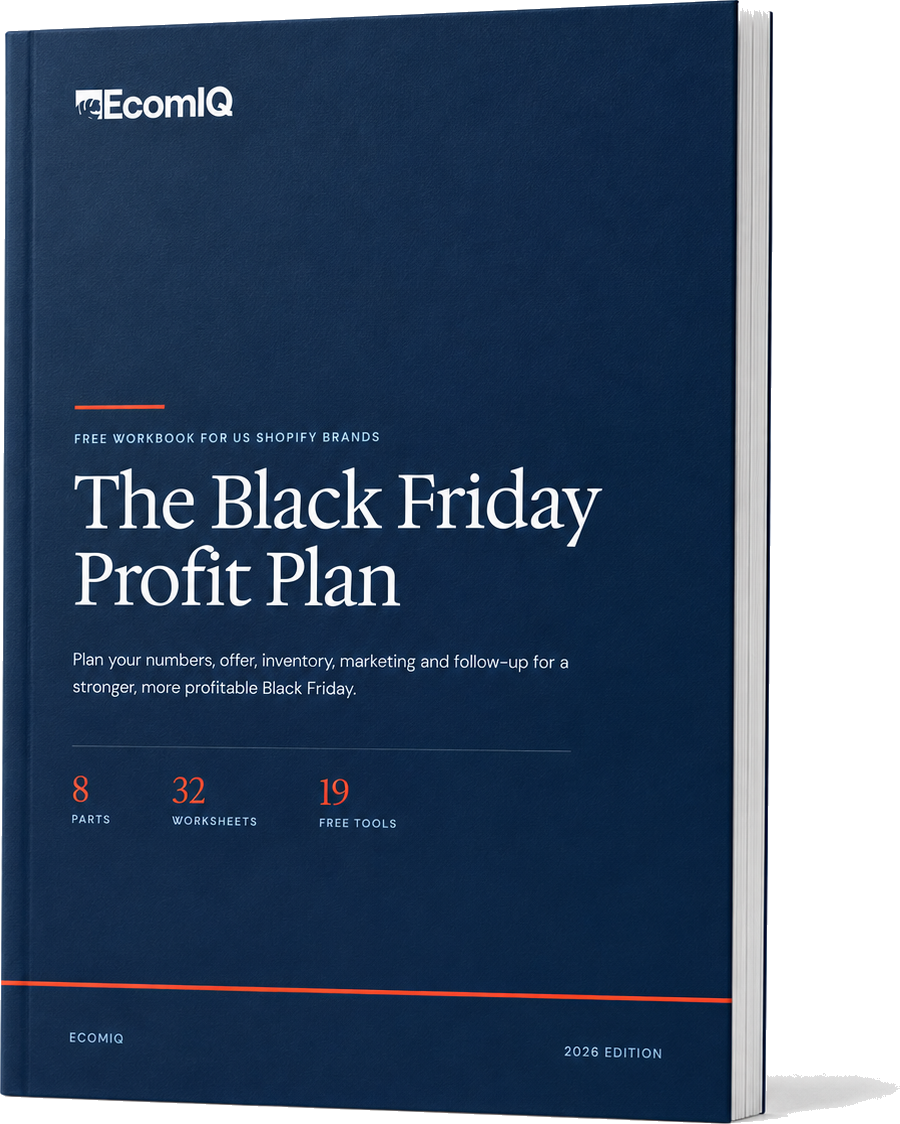
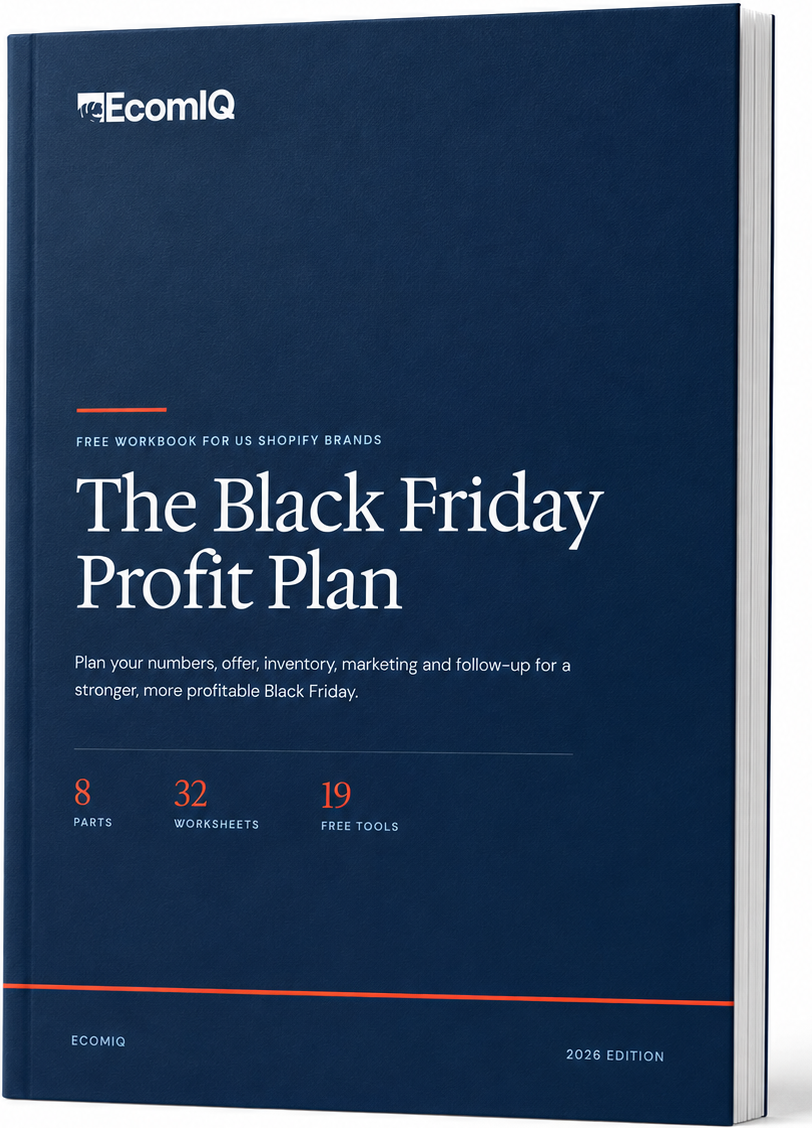
Ship the feed cut as 4:5 and put both product stills back on a white card
The second deliverable should be 4:5 (1080x1350), the EcomIQ house Meta feed
format, not 1:1. That needs its own crop off the master (1728x2160 against the
square's 2160x2160) — rescaling one ratio's rendition into another squashes
Sean — so gen-square.sh is now gen-ratio.sh <45|1x1> and the 1:1 stays one
command away rather than being deleted.

Also reverts the cover cut-out. Making the workbook bigger by dropping its
white card and flood-filling the mockup backdrop left ragged alpha along the
page block, stranded the drop shadow as a floating grey blob, and gave a navy
book no separation on a navy canvas. Both stills go back on a white card, where
the backdrop simply disappears, and the cover is additionally cropped to 812px
because the book sits left of centre in its mockup frame and a plain trim
leaves a slab of dead white beside it.

The band check caught the 4:5 FREE scene overflowing the subtitle band by 1px;
the toolkit spread steps down to 820px there. Clearances are 103px (9:16) and
23px (4:5).

Claude-Session: https://claude.ai/code/session_011z9EyrvhL1WqyEvnjq7vuU

diff --git a/video-projects/ecomiq-bf-workbook/assets/ad.css b/video-projects/ecomiq-bf-workbook/assets/ad.css
@@ -16,10 +16,12 @@
    enters it — only full-bleed decoratives (the bloom, the A-roll scrim) pass
    through, and those sit behind type without hurting legibility.
      9:16  340px → band is y 1580–1920 (17.7% of frame)
+     4:5   240px → band is y 1110–1350 (17.8% of frame)
      1:1   200px → band is y  880–1080 (18.5% of frame)
    Change the value here and every scene rebalances. Verify with
    scripts/check-subtitle-band.mjs. */
 body.r-916 { height: 1920px; --sub-safe: 340px; }
+body.r-45  { height: 1350px; --sub-safe: 240px; }
 body.r-1x1 { height: 1080px; --sub-safe: 200px; }
 
 * { margin: 0; padding: 0; box-sizing: border-box; }
@@ -43,6 +45,20 @@ body.r-916 {
   --dial: 260px;   --dial-fig: 78px;
   --box: 62px;     --ctext: 44px;     --check-gap: 20px;
   --cover-w: 840px; --page-w: 760px;  --spread-w: 904px; --free-word: 200px;
+  --pill: 46px;    --end-head: 104px;
+}
+/* 4:5 is the EcomIQ house Meta feed format. All three cuts are 1080 wide, so
+   width-bound type carries the 9:16 sizes unchanged; only the height budget
+   differs, which is why the cover and page shots step down here. */
+body.r-45 {
+  --pad-x: 88px;   --pad-top: 150px;  --pad-bot: 60px;
+  --eyebrow: 26px; --label: 27px;     --h1: 104px;
+  --fig-lg: 96px;  --fig-sm: 62px;
+  --bar-h: 26px;   --chip-h: 54px;    --chip-k: 28px;  --chip-v: 32px;
+  --arrow-w: 118px; --arrow-h: 150px; --cname: 40px;
+  --dial: 260px;   --dial-fig: 78px;
+  --box: 62px;     --ctext: 44px;     --check-gap: 20px;
+  --cover-w: 640px; --page-w: 560px;  --spread-w: 820px; --free-word: 200px;
   --pill: 46px;    --end-head: 104px;
 }
 body.r-1x1 {
@@ -90,6 +106,7 @@ body.r-1x1 {
    --------------------------------------------------------------------------- */
 #logo-wrap { position: absolute; z-index: 100; }
 body.r-916 #logo-wrap { top: 96px; left: 88px; }
+body.r-45  #logo-wrap { top: 80px; left: 88px; }
 body.r-1x1 #logo-wrap { top: 56px; left: 72px; }
 #logo-wrap img { display: block; width: 196px; height: auto;
   filter: drop-shadow(0 6px 18px rgba(0, 0, 0, 0.55)); }
@@ -201,18 +218,18 @@ body.r-1x1 #logo-wrap img { width: 168px; }
   letter-spacing: 0.02em; text-transform: uppercase; color: var(--brand-white); }
 
 /* ---- 7 · product stills --------------------------------------------------
-   Sources are trimmed to the product's bounding box, so the artwork fills its
-   box instead of floating inside the mockup's white margin. Sat straight on
-   navy with a drop shadow — no white card, which lets the cover run much
-   larger in frame. */
-.shot { display: block; height: auto;
-  filter: drop-shadow(0 46px 90px rgba(0, 0, 0, 0.6)); }
+   Both stills keep the mockup's white backdrop and sit on a white card.
+   Knocking the background out was tried and reverted: these products are shot
+   at an angle with soft drop shadows, so an alpha cut leaves ragged edges on
+   the page block and strands the shadow as a floating grey blob — and a navy
+   book on a navy canvas has no separation anyway. On a white card the
+   backdrop simply disappears into the card, which is why the wedges of white
+   a plain -trim leaves inside the bounding box cost nothing here. */
+.shot { display: block; height: auto; background: #fff; border-radius: 18px;
+  box-shadow: 0 46px 90px -20px rgba(0, 0, 0, 0.6); }
 #hero-shot { width: var(--cover-w); }
 #page-shot { width: var(--page-w); border-radius: 10px; }
-/* The toolkit spread's worksheets are white paper touching the white
-   backdrop, so knocking the background out erodes the pages themselves.
-   It keeps its backdrop and reads as a photo card instead. */
-#free-shot { width: var(--spread-w); background: #fff; border-radius: 18px; }
+#free-shot { width: var(--spread-w); }
 .scene .eyebrow { margin-bottom: 34px; }
 #page-callout { margin-top: 40px; display: flex; align-items: baseline; gap: 22px;
   padding: 26px 40px; border-radius: 16px; background: #0a325f;
@@ -231,6 +248,7 @@ body.r-1x1 #free-word { margin-top: 26px; }
   letter-spacing: -0.03em; text-align: center; color: var(--brand-white);
   max-width: 700px; }
 body.r-1x1 #end-head { max-width: 520px; }
+body.r-45 #end-head { max-width: 700px; }
 #end-pill { margin-top: 68px; font-size: var(--pill); font-weight: 800;
   color: var(--brand-white); background: var(--brand-flame);
   padding: 36px 84px; border-radius: 999px;

diff --git a/video-projects/ecomiq-bf-workbook/compositions/feed-45.html b/video-projects/ecomiq-bf-workbook/compositions/feed-45.html
@@ -2,8 +2,8 @@
 <html lang="en">
   <head>
     <meta charset="UTF-8" />
-    <meta name="viewport" content="width=1080, height=1080" />
-    <title>EcomIQ — Black Friday Profit Plan workbook (1:1)</title>
+    <meta name="viewport" content="width=1080, height=1350" />
+    <title>EcomIQ — Black Friday Profit Plan workbook (4:5)</title>
     <!-- GSAP vendored locally — a CDN tag cert-fails in the render env and
          freezes renders (docs/LESSONS.md). -->
     <script src="assets/vendor/gsap.min.js"></script>
@@ -18,7 +18,7 @@
         font-display: block; src: url(assets/fonts/HedvigLettersSerif.woff2) format('woff2'); }
     </style>
   </head>
-  <body class="r-1x1">
+  <body class="r-45">
     <!-- =====================================================================
          Render contract: root carries id, data-composition-id, data-start="0",
          data-duration, data-width, data-height. Timed visible children carry
@@ -26,7 +26,7 @@
          <video> and <audio>, which take the data-* but never class="clip".
 
          GENERATED FILE — do not edit. Produced from ../index.html by
-         scripts/gen-square.sh. Edit index.html and re-run that script.
+         scripts/gen-ratio.sh. Edit index.html and re-run that script.
 
          Source is trimmed 2.75s via data-media-start on the video AND the
          audio equally, dropping the dead air before Sean's first word without
@@ -34,16 +34,16 @@
          ===================================================================== -->
     <div
       id="root"
-      data-composition-id="ecomiq-bf-workbook-square"
+      data-composition-id="ecomiq-bf-workbook-45"
       data-start="0"
       data-duration="52.33"
       data-width="1080"
-      data-height="1080"
+      data-height="1350"
     >
       <!-- A-roll spine. Non-timed wrapper so the <video> is never transformed. -->
       <div id="aroll-wrap">
         <video id="aroll" data-start="0" data-duration="45.20" data-track-index="20"
-               data-media-start="2.75" src="assets/aroll-1x1.mp4" muted playsinline></video>
+               data-media-start="2.75" src="assets/aroll-45.mp4" muted playsinline></video>
       </div>
       <div id="aroll-scrim"></div>
 
@@ -430,7 +430,7 @@
 
       // Pad to the root data-duration.
       tl.to({}, { duration: 52.33 }, 0);
-      window.__timelines["ecomiq-bf-workbook-square"] = tl;
+      window.__timelines["ecomiq-bf-workbook-45"] = tl;
     </script>
   </body>
 </html>

diff --git a/video-projects/ecomiq-bf-workbook/index.html b/video-projects/ecomiq-bf-workbook/index.html
@@ -25,8 +25,8 @@
          class="clip" + data-start / data-duration / data-track-index, except
          <video> and <audio>, which take the data-* but never class="clip".
 
-         compositions/square.html is GENERATED from this file — run
-         scripts/gen-square.sh after editing, never hand-edit the square cut.
+         Secondary ratio cuts are GENERATED from this file — run
+         scripts/gen-ratio.sh <ratio> after editing, never hand-edit them.
 
          Source is trimmed 2.75s via data-media-start on the video AND the
          audio equally, dropping the dead air before Sean's first word without

diff --git a/video-projects/ecomiq-bf-workbook/DESIGN.md b/video-projects/ecomiq-bf-workbook/DESIGN.md
@@ -6,29 +6,32 @@ scenes** that replace him on their beats; he carries the beats between them. The
 ad finishes on a workbook CTA end card. No captions are rendered — they go on
 manually downstream.
 
-## Two cuts, one source of truth
+## The cuts, one source of truth
 
 | Cut | File | Dimensions | Render |
 |---|---|---|---|
 | 9:16 Story/Reels | `index.html` | 1080×1920 @ 30fps | `npx hyperframes render -q standard -o renders/ecomiq-bf-workbook-916.mp4` |
-| 1:1 square feed | `compositions/square.html` | 1080×1080 @ 30fps | `npx hyperframes render -q standard -c compositions/square.html -o renders/ecomiq-bf-workbook-1x1.mp4` |
+| 4:5 Meta feed | `compositions/feed-45.html` | 1080×1350 @ 30fps | `npx hyperframes render -q standard -c compositions/feed-45.html -o renders/ecomiq-bf-workbook-45.mp4` |
 
-**`compositions/square.html` is GENERATED — never hand-edit it.** Edit
-`index.html`, then run `bash scripts/gen-square.sh` from the repo root. The two
-cuts carry identical markup and identical timeline JS; everything that differs
-is a CSS custom property under `body.r-916` / `body.r-1x1` in `assets/ad.css`.
-That is why a change lands in both cuts at once instead of drifting.
+4:5 is the EcomIQ house Meta feed format and is the shipped pair with the 9:16.
+A 1:1 cut also exists on demand (`bash scripts/gen-ratio.sh 1x1`) but is not
+part of the delivery.
+
+**Secondary cuts are GENERATED — never hand-edit them.** Edit `index.html`,
+then run `bash scripts/gen-ratio.sh 45` (or `1x1`) from the repo root. Every
+cut carries identical markup and identical timeline JS; everything that differs
+is a CSS custom property under `body.r-916` / `body.r-45` / `body.r-1x1` in
+`assets/ad.css`. That is why a change lands in every cut at once instead of
+drifting. The generator also offsets each ratio's track indices into its own
+range so static lint never reads two cuts as one timeline.
 
 Two structural rules the linter enforces, learned the hard way:
 
-- Only one root `index.html` may carry a `data-composition-id`, so the square
-  cut lives under `compositions/` and renders with `-c`.
+- Only one root `index.html` may carry a `data-composition-id`, so secondary
+  cuts live under `compositions/` and render with `-c`.
 - Files under `compositions/` use **root-relative** asset paths (`assets/…`,
   never `../assets/…`) — Hyperframes serves every composition with the project
   root as its base URL.
-
-The generator also shifts the square cut's track indices into the 20+ range so
-static lint never reads the two cuts as one timeline with duplicate audio.
 
 Beat-by-beat timings and the provenance of every on-screen figure:
 **`EDIT-PLAN.md`**. Note the plan predates two cuts Anna made in review (see
@@ -74,21 +77,22 @@ A-roll went back to full-bleed it just tinted the bottom of the shot.
 **Graphic scenes** (`.scene`) are full-screen navy, `z-index: 10`, and replace
 Sean entirely for their duration. `.sc` lays out with padding + flex, never an
 absolute-positioned content container; `.sc-mid` centres content in whatever
-space remains above the subtitle band, so both ratios balance without
+space remains above the subtitle band, so every ratio balances without
 hardcoded offsets.
 
 Logo: `ecomiq-logo-white.svg`, top-left on **every** frame, 196px on 9:16 and
-168px on 1:1 (~18% and ~16% of frame width), in a **positioned non-`clip`
+4:5, 168px on 1:1 (~18% and ~16% of frame width), in a **positioned non-`clip`
 wrapper** — `clip` makes the render engine reposition it (`docs/LESSONS.md`).
 
 ## Reserved subtitle band (do not fill)
 
 Subtitles are added **manually, downstream**. A clear band is reserved at the
-bottom of both cuts and nothing may be laid into it:
+bottom of every cut and nothing may be laid into it:
 
 | Cut | `--sub-safe` | Band | % of height |
 |---|---|---|---|
 | 9:16 | `340px` | y 1580–1920 | 17.7% |
+| 4:5 | `240px` | y 1110–1350 | 17.8% |
 | 1:1 | `200px` | y 880–1080 | 18.5% |
 
 Set once in `assets/ad.css`; every scene rebalances off it via
@@ -98,10 +102,10 @@ Set once in `assets/ad.css`; every scene rebalances off it via
 
 ```bash
 node scripts/check-subtitle-band.mjs video-projects/ecomiq-bf-workbook/index.html 1920 340
-node scripts/check-subtitle-band.mjs video-projects/ecomiq-bf-workbook/compositions/square.html 1080 200
+node scripts/check-subtitle-band.mjs video-projects/ecomiq-bf-workbook/compositions/feed-45.html 1350 240
 ```
 
-Current clearance: **119px** (9:16), **22px** (1:1).
+Current clearance: **103px** (9:16), **23px** (4:5).
 
 Two things that checker gets right, both of which produced false passes before:
 
@@ -126,7 +130,7 @@ Two things that checker gets right, both of which produced false passes before:
 - **No ratio constants in the JS.** Bar geometry is computed from the dollar
   figures against the live `.bar` width; the dial circumference reads the SVG's
   own radius; checkmark dash lengths come from `getTotalLength()`. That is what
-  lets one script drive both cuts.
+  lets one script drive every cut.
 - Finite repeats only — `repeat: -1` breaks the capture engine.
 
 ## Media
@@ -134,20 +138,23 @@ Two things that checker gets right, both of which produced false passes before:
 Regenerate with `bash scripts/prep-bf-assets.sh` from the repo root. Prepped
 A-roll renditions are gitignored (derived from a 3.4 GB ProRes master).
 
-- `aroll-916.mp4` / `aroll-1x1.mp4` — centre crops of a 3840×2160 16:9 landscape
-  25fps master, scaled and conformed to 30fps CFR. Silent by contract; audio is
-  the sibling `<audio>`.
-- `aroll-audio.m4a` — the full take. Both cuts trim 2.75s via `data-media-start`
+- `aroll-916.mp4` / `aroll-45.mp4` / `aroll-1x1.mp4` — centre crops of a
+  3840×2160 16:9 landscape 25fps master, scaled and conformed to 30fps CFR.
+  **Each ratio needs its own crop** (1215, 1728 and 2160 px wide respectively);
+  rescaling one rendition into another aspect squashes Sean. Silent by
+  contract; audio is the sibling `<audio>`.
+- `aroll-audio.m4a` — the full take. Every cut trims 2.75s via `data-media-start`
   on the video **and** the audio equally, dropping the dead air before Sean's
   first word without breaking lip sync.
-- `workbook-hero-trim.png` — cover with the mockup's white backdrop **flood-filled
-  from the corners** to transparent, so it sits straight on navy at full size.
-  A plain `-trim` is not enough: the book is shot at an angle, so wedges of white
-  survive inside its bounding box and render as a hard white rectangle beside it.
-- `toolkit-spread-trim.png` — plain `-trim` only, shown on a rounded white photo
-  card. Flood-filling this one **erodes the artwork**: its worksheets are white
-  paper touching the white backdrop, so the fill runs straight through the page
-  edges and leaves them torn.
+- `workbook-hero-trim.png` / `toolkit-spread-trim.png` — **both keep the
+  mockup's white backdrop and sit on a white card** (`.shot`). Knocking the
+  background out was tried on the cover and reverted: these products are shot at
+  an angle with soft drop shadows, so an alpha cut leaves ragged edges along the
+  page block and strands the shadow as a floating grey blob, and a navy book on
+  a navy canvas has no separation anyway. On a white card the backdrop simply
+  disappears into the card. The cover needs one extra step: the book sits left
+  of centre inside its mockup frame, so after `-trim` it is cropped to 812px
+  wide (the book and page block end at x=774 of 952) to drop the dead white.
 - `wb-page-08.png` — a real page from the workbook PDF, the contribution-margin
   worked example every on-screen figure is drawn from.
 
@@ -174,7 +181,9 @@ roughly 12s of the 52s.
 - Don't invent performance claims. Every figure traces to the workbook's page-8
   worked example or is derived from it, and `EDIT-PLAN.md` §3 records which.
 - Don't letterbox the A-roll to "zoom out" — built, reviewed, rejected.
-- Don't flood-fill `toolkit-spread.png`; don't plain-`-trim` `workbook-hero.png`.
+- Don't knock the background out of either product still; they belong on the
+  white card. See the Media section for why.
+- Don't rescale one ratio's A-roll into another aspect; re-crop from the master.
 - Don't use `toolkit-spread-alt.png` or the fourth Drive still for tight crops —
   they are AI mockups with garbled microtext.
 - Don't put a second root composition at the project root.
